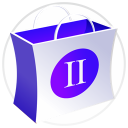
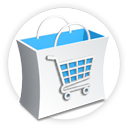
update assets

diff --git a/index.php b/index.php
@@ -11,9 +11,9 @@ if(isset($_SERVER['HTTPS']) && $_SERVER['HTTPS'] === 'on') {
 }
 
 //App Details
-$title = "webOS App Museum";
+$title = "webOS App Catalog";
 $subtitle = " | webOS Archive";
-$description = "The App Museum is a community project to archive, restore and provide access to the historical catalog of apps for Palm/HP's defunct mobile platform, webOS.";
+$description = "The App Catalog is a community-led living Museum that works to archive, restore and provide access to a new and historical repository of apps for Palm/HP's defunct mobile platform, webOS.";
 $github = "https://github.com/webOSArchive/webos-catalog-service";
 $homeLink = $PROTOCOL."://appcatalog.webosarchive.org";
 $icon = $homeLink."/assets/icon.png";
